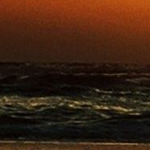
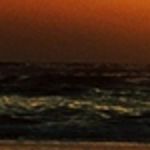
WIP

diff --git a/generate.go b/generate.go
@@ -23,6 +23,27 @@ func main() {
 		return
 	}
 
+	// scale wallpaper down and then back up to reduce quality
+	cmd = exec.Command("ffmpeg", "-i", "wallpaper_scaled.png", "-vf", fmt.Sprintf("scale=%f:%f", scale * baseWidth / 2.0, scale * baseHeight / 2.0), "wallpaper_scaled_temp.png")
+	if err := cmd.Run(); err != nil {
+		fmt.Printf("could not scale down wallpaper: %+q\n", err)
+		return
+	}
+
+	// remove the scaled wallpaper
+	cmd = exec.Command("rm", "wallpaper_scaled.png")
+	cmd.Run()
+
+	cmd = exec.Command("ffmpeg", "-i", "wallpaper_scaled_temp.png", "-vf", fmt.Sprintf("scale=%f:%f", scale * baseWidth, scale * baseHeight), "wallpaper_scaled.png")
+	if err := cmd.Run(); err != nil {
+		fmt.Printf("could not scale wallpaper: %+q\n", err)
+		return
+	}
+
+	cmd = exec.Command("rm", "wallpaper_scaled_temp.png")
+	cmd.Run()
+
+	// create the icons
 	for j := 0; j < 6; j++ {
 		for i := 0; i < 4; i++ {
 			fileName := fmt.Sprintf("%d_%d.png", j, i)
